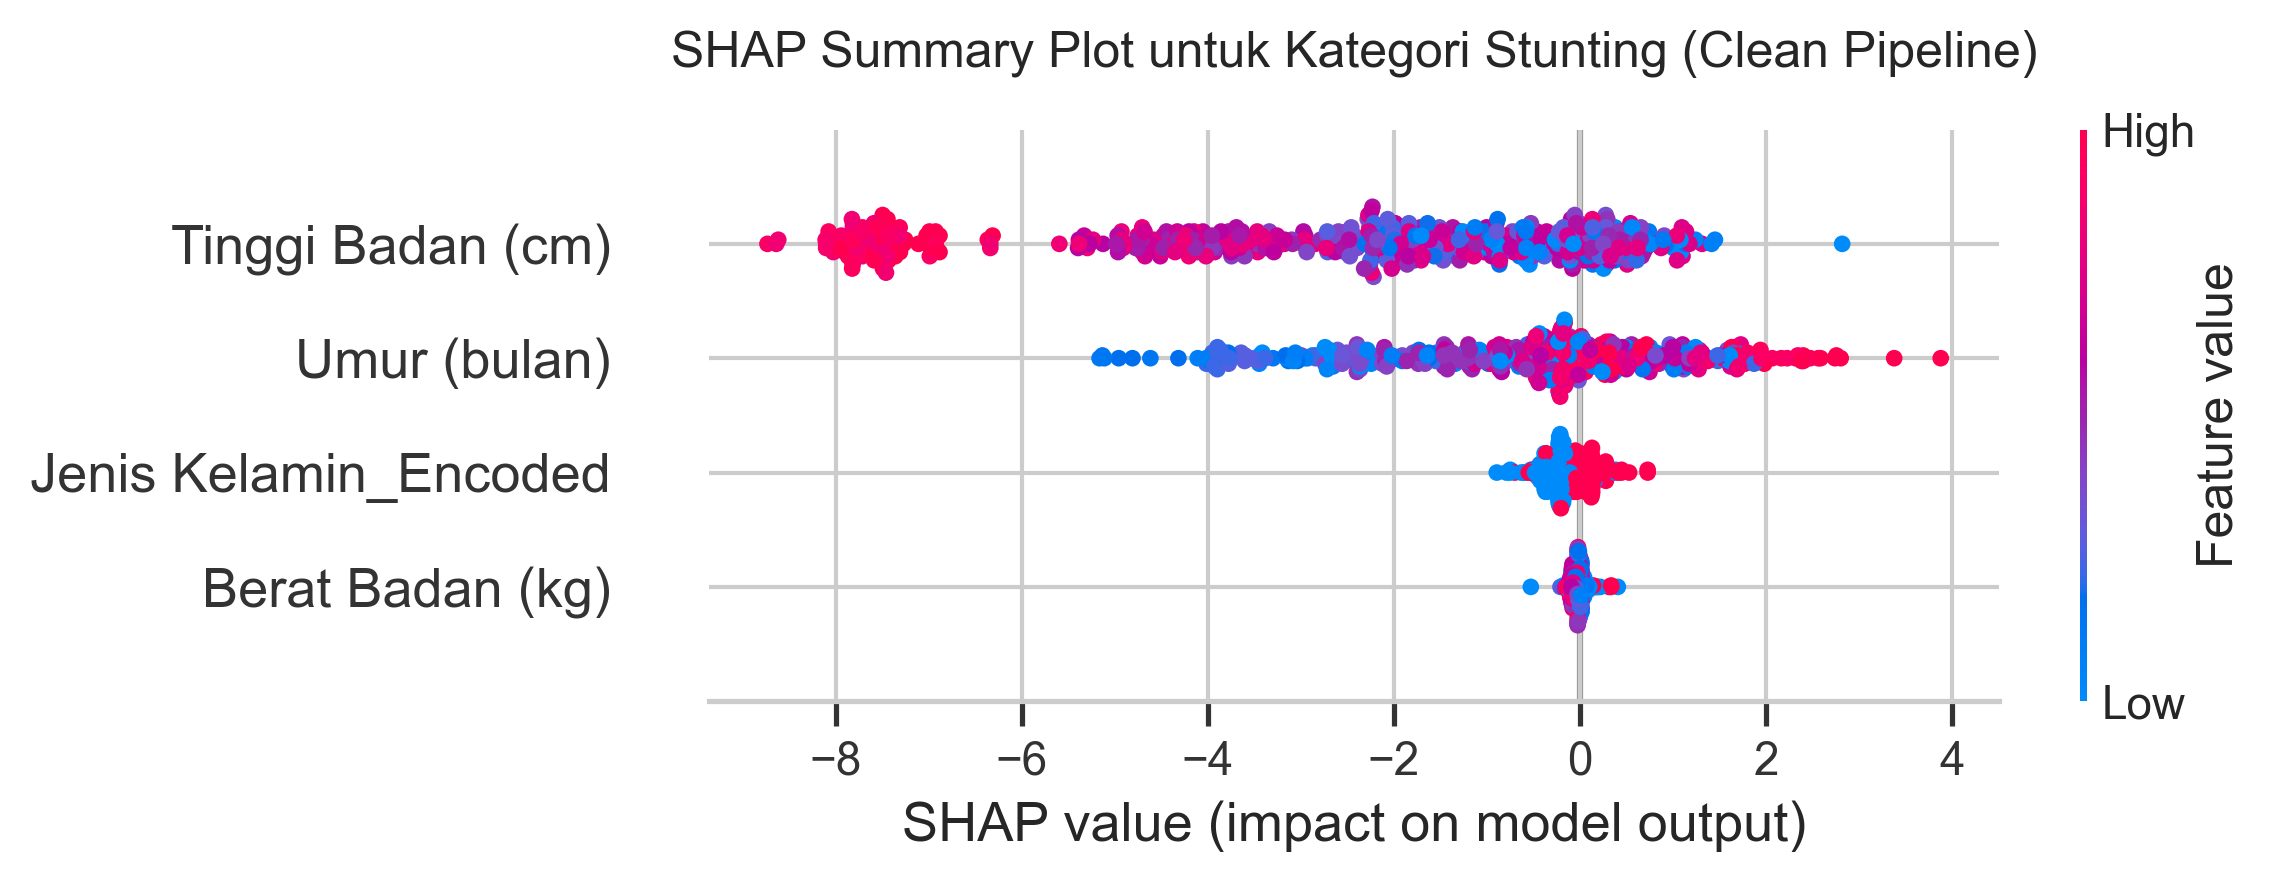
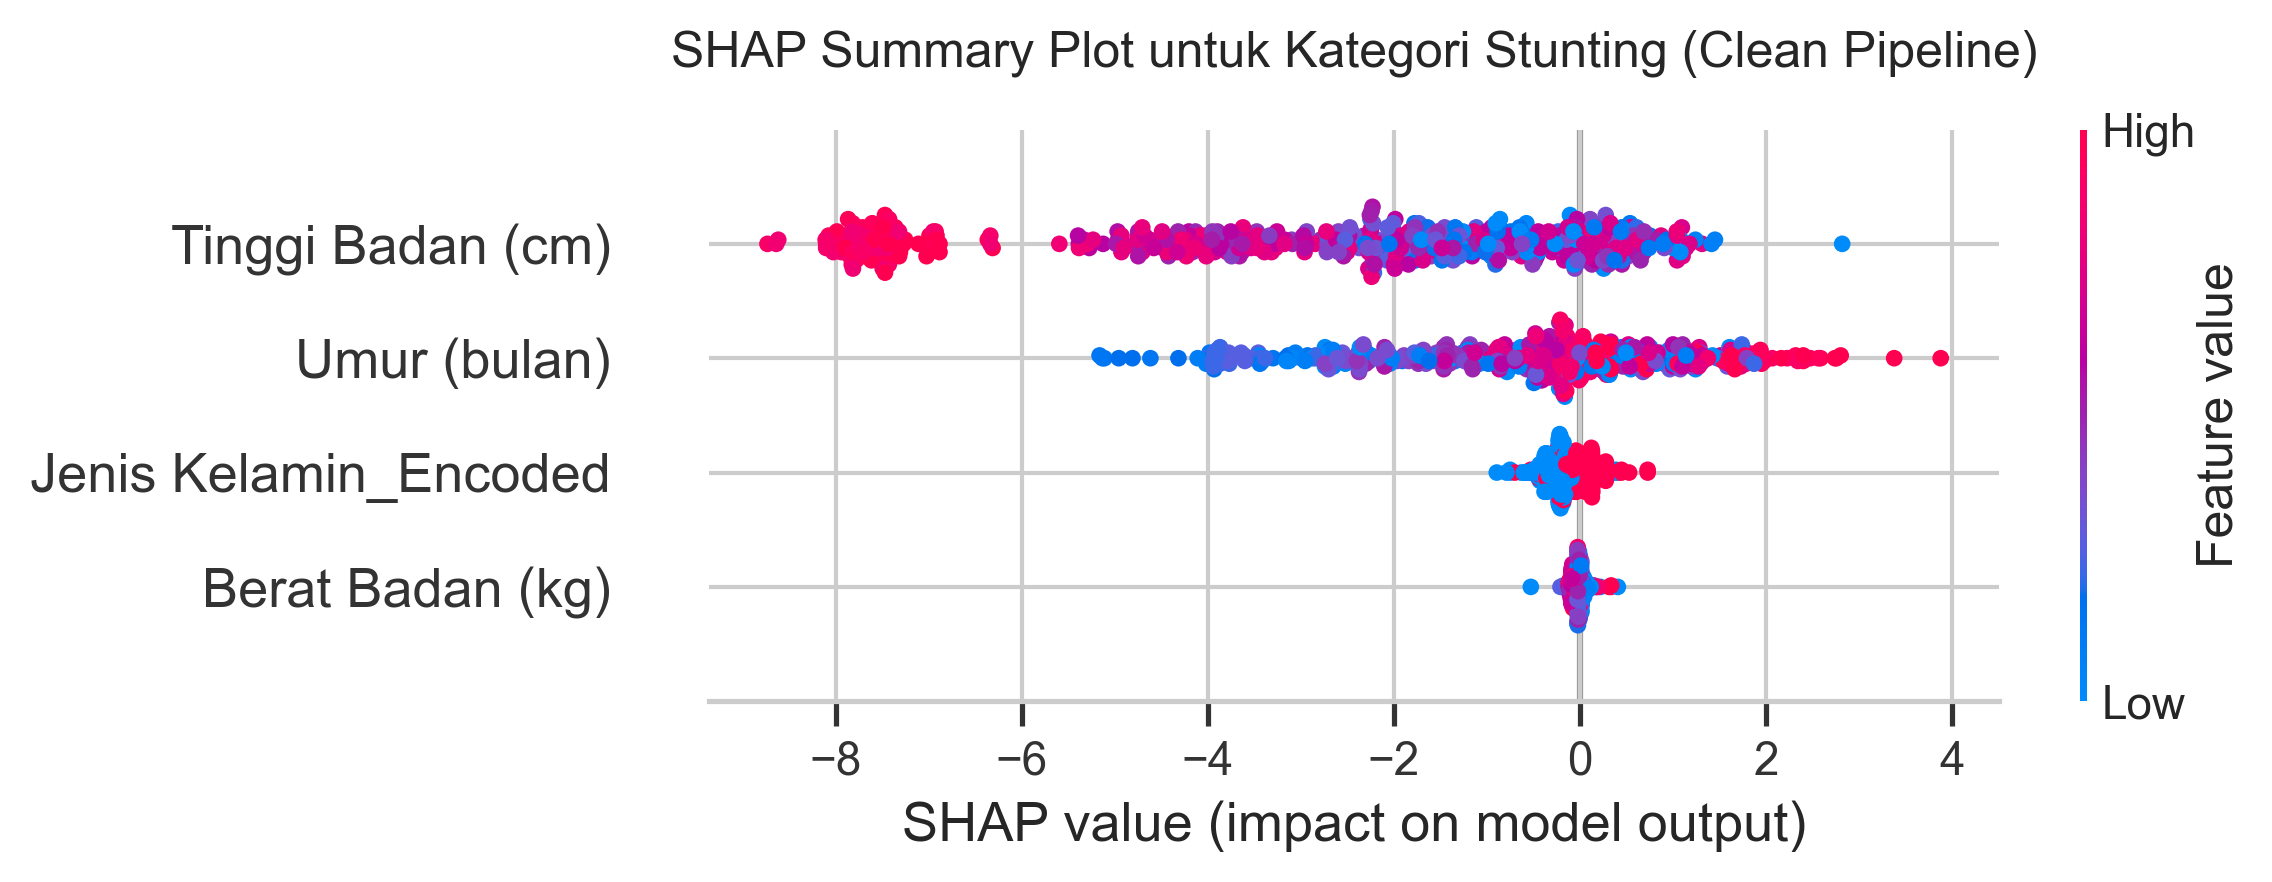
refactor: update notebook output paths and documentation for results directory reorganization

diff --git a/README.md b/README.md
@@ -37,15 +37,23 @@ Stunting-Detection-ML-Spatial-Analysis/
 │   ├── Stunting Wasting Dataset (Synthetic)/
 │   └── z-scores who/
 ├── results/                                   # Output artifacts
-│   ├── stunting_dashboard.html               # Interactive web dashboard
-│   ├── stunting_xgb_classifier.joblib        # Trained classification model
-│   ├── stunting_lgbm_reg_haz.joblib          # HAZ regression model
-│   ├── stunting_lgbm_reg_waz.joblib          # WAZ regression model
-│   └── [visualizations and supporting files]
+│   ├── classification/                       # Classification model & visual outputs
+│   │   ├── stunting_xgb_classifier.joblib
+│   │   ├── stunting_target_encoder.joblib
+│   │   ├── stunting_gender_encoder.joblib
+│   │   └── [plots: confusion matrix, distributions, SHAP summary/waterfall]
+│   ├── clustering/                           # Clustering maps & visual outputs
+│   │   ├── indonesia_stunting_map.html
+│   │   └── [plots: evaluations, correlation, scatter, dendrogram]
+│   ├── regression/                           # Regression models & visual outputs
+│   │   ├── stunting_lgbm_reg_haz.joblib
+│   │   ├── stunting_lgbm_reg_waz.joblib
+│   │   └── [plots: residual analysis, jointplot, SHAP summary]
+│   └── dashboard/                            # Interactive web dashboard & JS files
+│       └── stunting_dashboard.html
 ├── requirements.txt                           # Python dependencies
 ├── README.md                                  # This file
 └── .gitignore
-
 ```
 
 ## Installation
@@ -94,10 +102,10 @@ jupyter notebook Stunting_Regression_Analysis.ipynb
 After model generation, open the interactive dashboard:
 
 ```bash
-open results/stunting_dashboard.html
+open results/dashboard/stunting_dashboard.html
 # or serve via local web server
 python -m http.server 8000
-# Navigate to http://localhost:8000/results/stunting_dashboard.html
+# Navigate to http://localhost:8000/results/dashboard/stunting_dashboard.html
 ```
 
 ## Key Results